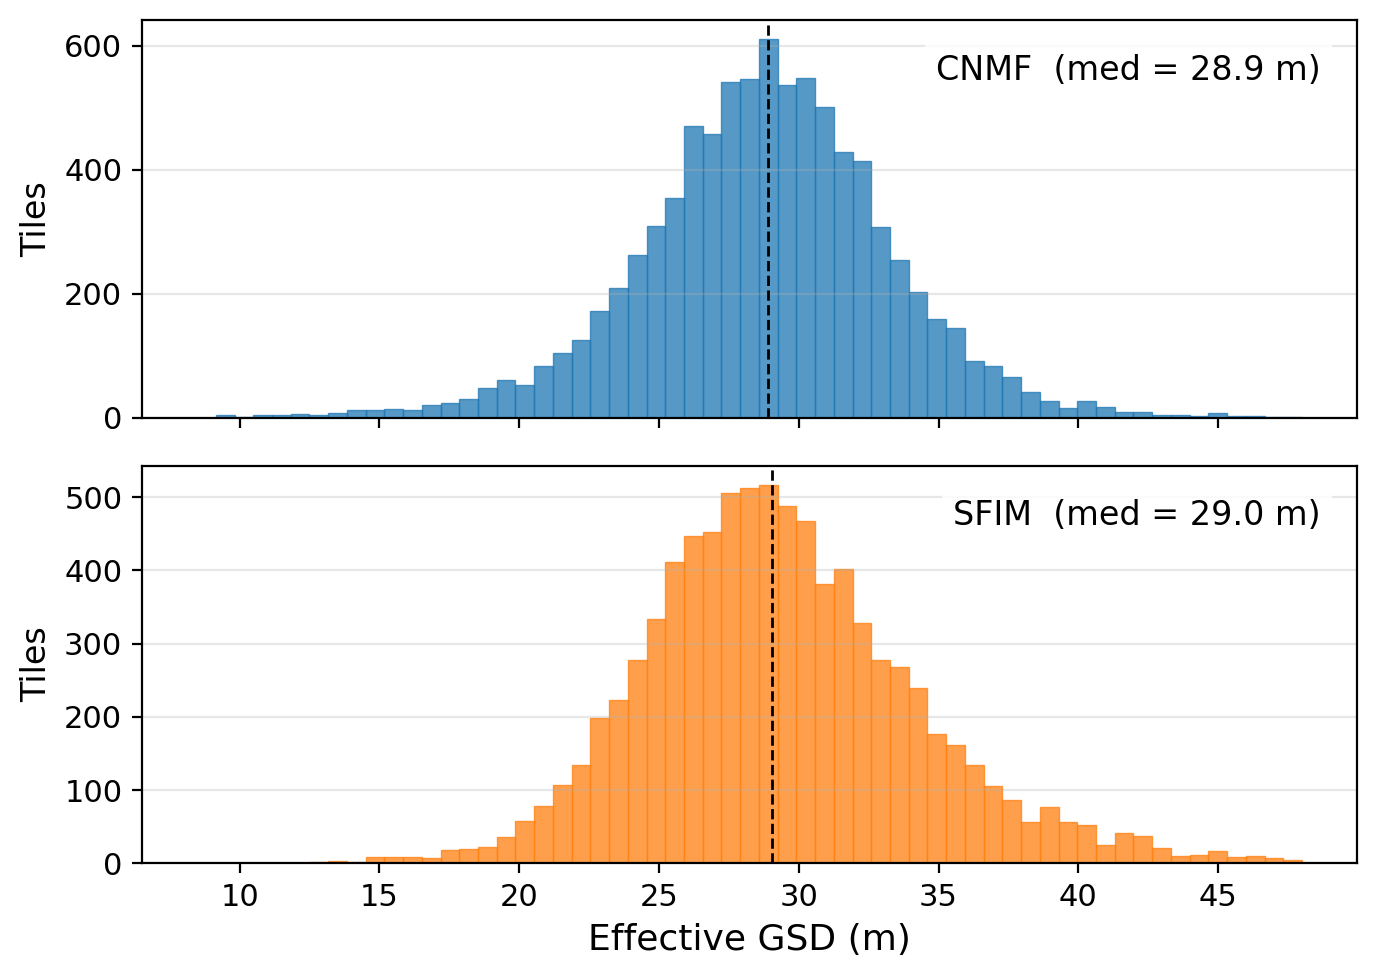
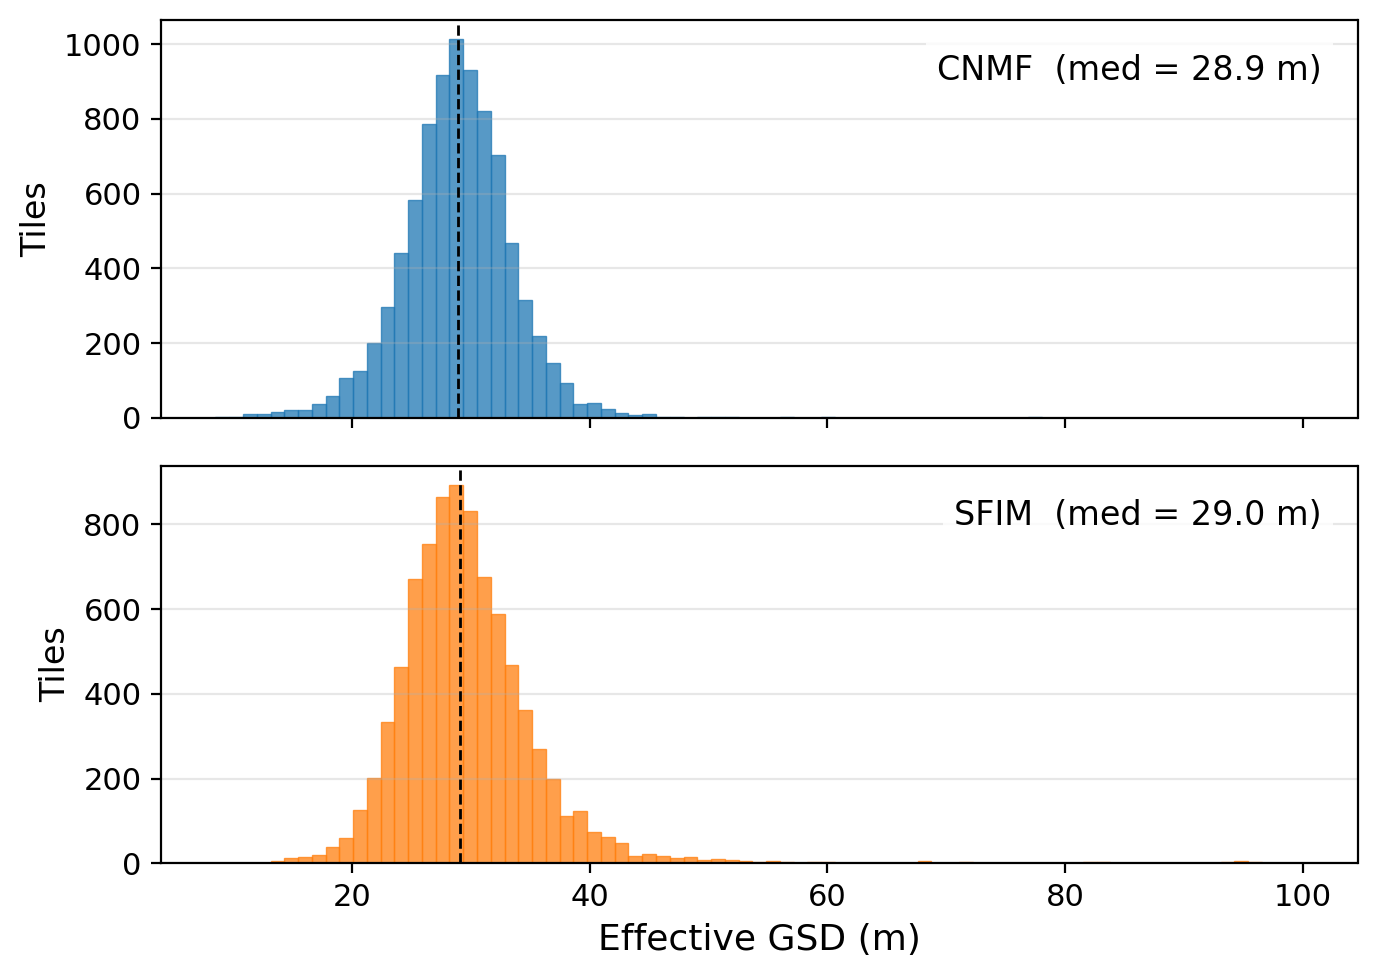
gfds

diff --git a/training/fusion_esf_comparison.py b/training/fusion_esf_comparison.py
@@ -90,8 +90,8 @@ def make_paired_histogram(cnmf, sfim, out_path):
     gsd_s = sfim['gsd_eff_m'].dropna()
 
     lo = min(gsd_c.min(), gsd_s.min()) * 0.9
-    hi = np.percentile(np.concatenate([gsd_c, gsd_s]), 99) * 1.05
-    bins = np.linspace(lo, hi, 60)
+    hi = max(gsd_c.max(), gsd_s.max()) * 1.02
+    bins = np.linspace(lo, hi, 80)
 
     fig, (ax1, ax2) = plt.subplots(2, 1, figsize=(7, 5), sharex=True)
 
